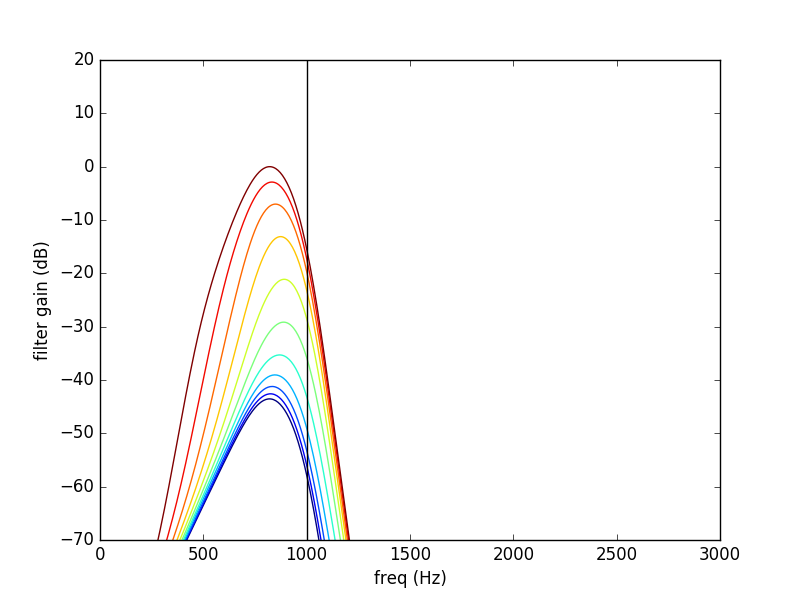
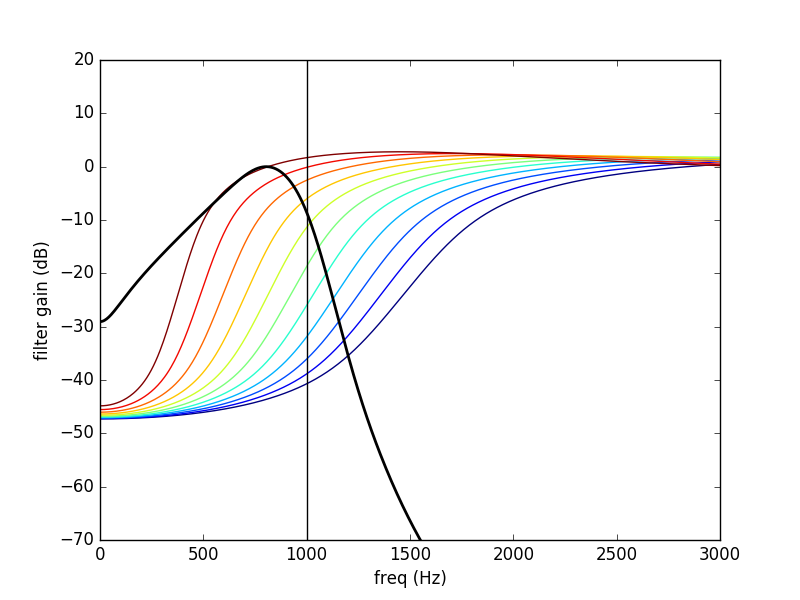
doc WIP 2.

diff --git a/examples/plot_dynamic_filters.py b/examples/plot_dynamic_filters.py
@@ -65,7 +65,7 @@ for ax in [ax2, ax3]:
     ax.set_ylim(-70,20)
 
 #~ fig1.savefig('input_output_gain.png')
-#~ fig2.savefig('filter_pgc_and_hpaf.png')
-#~ fig3.savefig('filter_cgc.png')
+#~ fig3.savefig('filter_pgc_and_hpaf.png')
+#~ fig2.savefig('filter_cgc.png')
 
 plt.show()

diff --git a/doc/source/index.rst b/doc/source/index.rst
@@ -136,8 +136,10 @@ Step:
   1. **PGC1** : The input sound is filtered by a bank of N passive gammachirp filter. N is tipycally 32.
   2. **Level estimation** : The instantaneous level is estimated in dB for each band. Sample by sample.
   3. **HP-AF** : A Highpass filter filter where the central frequency is dynamically controled by level.
-  4. **PGC2** : Time reversal passive gammachirp. Identical to **PGC1**. This induced a delay for realtime.
+  4. **PGC2** : Time reversal passive gammachirp. Identical to **PGC1**. The is for phase regulation in between bands. This induced a delay for realtime.
   5. **passive gain** : a passive gain for each band.
+  6. **sum** : sum all bands for resynthesis.
+
 
 Step 1, 2, 3, 4:  togother are the compressive gammachrip (**CGC**). This model the outer hair cell (OHC) impairement by cancelling the natural compression.
 
@@ -146,13 +148,13 @@ Step 5: This model inner hair cells (IHC) loss with a static gain.
 
 As example here the 1000 Hz band
 
-The PGC in black and HP-AF levelled controled frequency repsonse.
+The PGC filter (in black) and HP-AF (color) levelled controled frequency repsonse.
 Blue are low levels and red high levels.
 Note that the **HP-AF** is moving from left (low, blue) to right (high, red).
 
 .. image:: img/filter_pgc_and_hpaf.png
 
-The sum of the PGC1 + HP-AF + PGC2 is the CGC (compressive gammachirp).
+The sum of the PGC1 + HP-AF + PGC2 is the InvCGC (Inverse Compressive Gammachirp).
 Blue are low levels and red high levels.
 Note that for low level there is a negative gain. For high level, the gain tend to zero dB:
 
